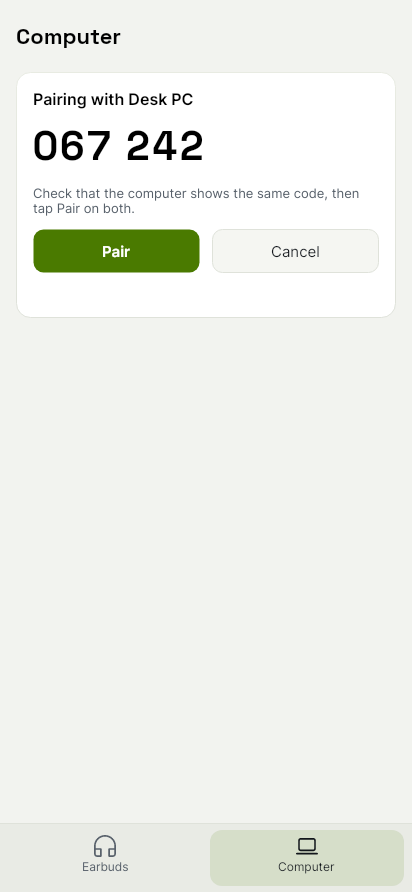
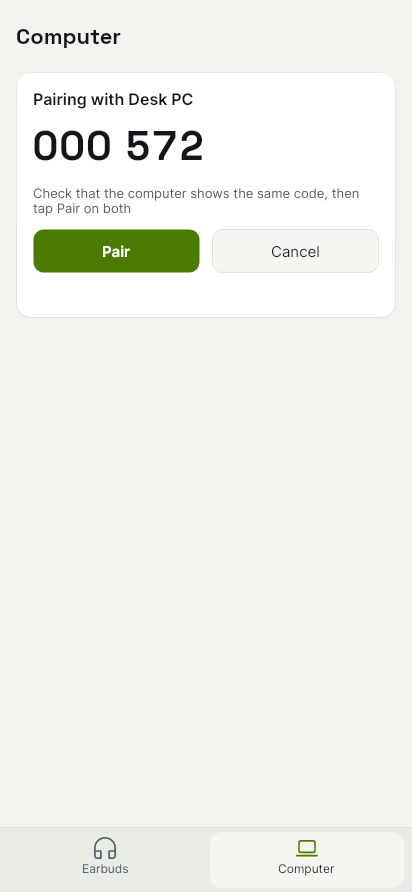
Docs: README, TRY-IT, screenshots and the decision record
- README: Bose and the shared driver list, the stress flags and image variables,
  the layering and design-system rules, links to feature/ui-redesign, and the
  submodule following feature/ui-redesign.
- TRY-IT: the desktop's branch is feature/ui-redesign; --simulate=worst/empty.
- docs/images: regenerated with the frozen clock (unslop polish, 15 px body text).
- docs/decisions/2026-11-05-mobile-improvements.md: per step, what was decided and
  why, the alternatives turned down, the rules applied, how it was verified, what
  needs a real phone, and the follow-ups for the desktop repo.

Claude-Session: https://claude.ai/code/session_01X2PKY5L5KEwvM7pq2gchR2

diff --git a/docs/decisions/2026-11-05-mobile-improvements.md b/docs/decisions/2026-11-05-mobile-improvements.md
@@ -1,0 +1,254 @@
+# Mobile improvements: shared foundations, design system and quality passes
+
+**Status:** open, into `main` · **Date:** 2026-11-05 · **Branch:** `claude/mobile-improvements`
+
+## Why this work happened
+
+- **The ask:** improve samaat-mobile the way the desktop repo was improved today (desktop PRs #1 to #5), following the plan in §6 of the desktop's session record (`docs/sessions/2026-11-05-session-record.md` on `docs/session-2026-11-05`), and open one PR.
+- **What the survey found:**
+  - The submodule was pinned at `e264134`, from before PR #1: none of the shared tokens, the driver list, the `CommandRunner` fix, the worst-case data, the motion fixes or the pairing fix.
+  - `AndroidHost.cs` held a fourth copy of the driver list (Jieli and Fast Pair, so no Bose).
+  - There was no architecture, design-system or contrast test, and no decision record.
+  - `Mobile.axaml` used literal sizes, and `DeviceItemViewModel` was 696 lines.
+
+## Baseline and result
+
+- **Before:** `dotnet build Samaat.Mobile.slnx` gave 0 warnings and `dotnet test` passed 18 tests.
+- **After:** 0 warnings and **163** tests, all passing. The Android projects are not compiled here (see "Not verified here").
+
+## Decisions per step
+
+### 1. Foundations
+
+| Decision | Why | Rejected alternative |
+|---|---|---|
+| Move the pin to `473a430` (the tip of `feature/ui-redesign`, PRs #1 to #5) | Brings every shared fix; it built unchanged | Wait for the audit-fixes PR (not pushed yet; the plan said not to depend on it) |
+| `Samaat.Android` builds its registry with `BuiltInDrivers.CreateRegistry(devices)` | One driver list for every app; the phone gains Bose | Keep a phone list and add Bose to it (the drift the desktop just removed) |
+| `Samaat.Mobile` drops its Jieli and Fast Pair references; `Samaat.Android` references `Samaat.Drivers` | Mobile never used them; they were there only for Android to inherit | Mobile references `Samaat.Drivers` (would make the UI project a second composition root) |
+| `Samaat.Drivers` and `Samaat.Protocols.Bose` in both solutions | `Samaat.Drivers` now compiles in CI even without the Android SDK | Android solution only |
+| `ArchitectureTests`: a per-project allow-list, plus four rules | The desktop's approach; layering becomes a build failure | Review only |
+| Vendor ECC's `common` and `csharp` rule packs in `.claude/rules/ecc/`, byte-identical to the desktop's | The same rules in both repos | User-level install (lost every cloud session) |
+
+The four layering rules:
+
+- Mobile references shared projects only.
+- The platform layer depends on no phone project.
+- Only `Samaat.Android` and the preview are composition roots.
+- Every built project is in its solution.
+
+A guard also fails if any project writes its own driver list again.
+
+**Not done: enabling the ECC plugin in `.claude/settings.json`.** Claude Code's auto mode refused to let the session write its own settings file ("self-modification"), twice. The owner can add it with:
+
+```json
+{
+  "extraKnownMarketplaces": { "ecc": { "source": { "source": "github", "repo": "affaan-m/ECC" } } },
+  "enabledPlugins": { "ecc@ecc": true }
+}
+```
+
+### 2. Design system
+
+| Decision | Why | Rejected alternative |
+|---|---|---|
+| Shared `Tokens.axaml` and `Metrics.axaml` for everything that matches; `Metrics.Mobile.axaml` only for what a phone needs to differ | One source of truth across both apps; the phone's differences are named and justified | Copy the desktop's values (32 px targets and 13 px body text are too small on a phone) or keep literals |
+| Phone tokens: 44 px touch target (WCAG 2.5.5); option, device and nav rows at 52, 72 and 56; radii 10, 12 and 14 for 44 px controls; a type ramp one step up (label 12, meta 13, body 15, panel title 16); figure 26 (narrower rows); code 40 | Touch and arm's-length reading. Each value is pinned by a test that it differs from the shared token for the same role, so a duplicate can't creep in | Add these to the shared `Metrics.axaml` (they're phone-only) |
+| `MobileApp` merges `Metrics.axaml` itself | The desktop made `Artwork.axaml` merge it for compatibility; relying on that is accidental coupling | Rely on `Artwork.axaml` |
+| Port `DesignSystemTests` and `ContrastTests` | Enforced, as on the desktop | A guideline |
+
+The ported design-system tests fail on:
+
+- hex colours, literal font sizes and literal shadows;
+- tokenised radii and literal touch targets;
+- the sparkle icon and emoji.
+
+The contrast tests cover the desktop's shared token pairs and the phone's own pairs. The contrast check moved out of `MobileTests`.
+
+**Verified:** the token refactor (`361d862` to `7861c91`) renders all 16 screenshots within the run-to-run noise floor (see "How it was verified"); none changed.
+
+### 3. Unslop pass (polish mode)
+
+**Audit result:** light slop (the unslop skill's sign list, as vendored in the desktop repo).
+
+- **Clean already:** no gradients, glows, emoji or uppercase labels; one icon set (Fluent); tested contrast.
+- **Found:**
+  - lime-tinted selection fills on noise and EQ options and on the current tab;
+  - 700-weight titles;
+  - a sparkle icon for Adaptive (set in C#, so the markup test missed it);
+  - off-grid spacing (6, 10, 14);
+  - full stops on one-sentence captions.
+
+**Direction:** the desktop's "Listening room", unchanged.
+
+- **Character:** exact, candid, quietly technical.
+- **World:** ink surfaces, one lime signal.
+- **Moments:** the device stage and the figures.
+- **Signature:** the battery ring.
+
+| Decision | Why | Rejected alternative |
+|---|---|---|
+| Selection is a `Surface2` step with an accent hairline, lit tile and check; the current tab is a neutral key with only its glyph lit | The desktop's PR #2 rule: the accent marks one thing | Keep the lime-tinted fills |
+| Headings at 600 | Hierarchy from size | 700 |
+| Adaptive uses `Icon.Adaptive` | The sparkle reads as "AI magic"; the desktop already uses this icon | Keep it |
+| Spacing on the 4 px grid; the 2 px nudges stay | Rhythm. A test enforces it | Leave stray values |
+| One-sentence captions lose the full stop | Captions are labels. Toasts and results from shared code (`HandoffCoordinator`) keep theirs, which is a desktop follow-up | Change the shared messages here (not allowed: the submodule is read-only) |
+
+The grid changes in detail:
+
+- rows: 12;
+- alerts and toasts: 12×8;
+- option rows: 8;
+- nav bar: 8×4;
+- gaps: 8;
+- the device row's text inset: 12.
+
+**Suggested, not done:**
+
+- Device rows use one headphones glyph for every device, while the desktop shows each device's thumbnail.
+- The overall level appears three times on the device page.
+
+### 4. Stress test (break-ui)
+
+| Decision | Why | Rejected alternative |
+|---|---|---|
+| Worst-case and empty data come in through the simulator (`SimulatedMobile.Create(scenario:)`, preview `--simulate=worst` or `--simulate=empty`) | The skill's rule: change the data at the boundary, never the component | Hand-edited views |
+| `WorstCaseRenderTests` (44 frames, at 412 and 360 px, both themes) | The frames show regressions; the checks make them failures | Screenshots only |
+
+`WorstCaseRenderTests` fails a frame on:
+
+- any text cut without an ellipsis;
+- anything past the right edge.
+
+It covers:
+
+- the worst-case and empty data sets;
+- a computer with a long name and many earbuds;
+- a long toast.
+
+**What broke, and the fix.** Report first, then fix; each fix has a test in `WorstCaseFixesTests`.
+
+| What broke | Fix |
+|---|---|
+| A long device name ran under Refresh and off the screen in the page title | The title gets the remaining width and wraps. Not `MaxLines`: Avalonia drops the overflow without an ellipsis, so a cut name looks complete |
+| Computer names were cut without an ellipsis in the nearby row, the pairing title, the paired panel, "Earbuds on …" and the device page | Identity text (which computer you pair with) wraps; rows of the computer's earbuds trim with an ellipsis. No tooltips: a phone has no hover |
+| The battery caption claimed every level was reported for "Jo" (no right-bud level, no case), and said "aren't reported" for a disconnected device | The desktop's caption rule: name every piece without a level; say to connect when nothing is known |
+| The empty list stretched to the bottom and offered no way out | It hugs its text and offers "Bluetooth settings" |
+| A long toast covered the end of the page | Room as tall as the toast is added below the content while it shows (the desktop's fix) |
+| `SimulatedPhoneAudio` threw on devices without a Bluetooth address | They're left out, as Android would list them |
+| (Found by step 5's fix) a long EQ preset name was cut at 360 px | Option labels wrap |
+
+**Held up:**
+
+- 0 % and 100 % with tabular figures;
+- right-to-left Urdu;
+- emoji;
+- unreported readings as "–";
+- "critically low" in words;
+- the "Pair with a computer" path for devices without an address.
+
+### 5. Motion
+
+**Inventory:**
+
+- the shared `BatteryRing` value glide (260 ms, strong ease-out 0.23, 1, 0.32, 1);
+- four indeterminate busy bars, only during a real wait;
+- Fluent's instant press scale.
+
+There are no page or tab transitions, entrance animations, size or position animation, or decorative loops. Nothing on a high-frequency action needed removing.
+
+| Decision | Why | Rejected alternative |
+|---|---|---|
+| Test that the shared ring fix holds where the phone uses it (one `DeviceView`, its data context the open device) | Switching from 81 % to 55 % must jump; the same device still glides | Trust the desktop's test (different host control) |
+| Reduce motion through `IMobilePlatform.PrefersReducedMotion` | Android reads "Remove animations" (animator duration scale 0) and re-reads it on resume. A default interface member keeps other platforms compiling | A setting inside Samaat (the phone already has one) |
+| A `reduce-motion` class on the root view, not the window | Android has no window | |
+| Busy bars take `IsIndeterminate` from the style | A local value beats every style, so reduced motion couldn't stop the sweep. A markup test enforces it | |
+
+Under reduce motion, the desktop's rules apply: the ring jumps, busy bars hold still at half opacity, and presses don't shrink.
+
+**Found along the way:** `UserControl.shell` never matched `MainView`, because Avalonia type selectors match the exact style key.
+
+- The phone's body text was Fluent's 14 px instead of the intended 15.
+- The shell background relied on the window style, which Android doesn't have.
+- **Fix:** `:is(UserControl).shell`, with a test. This changes text size across the app, which is intended. The docs screenshots were regenerated.
+
+The owner can run `/review-animations` for a full review; this session can't invoke that skill.
+
+### 6. Backend cleanup
+
+| Decision | Why | Rejected alternative |
+|---|---|---|
+| Extract the two decision functions, `BatterySummary` and `ComputerMoveState`, as plain records with `From(...)` | Testable without a UI; 21 test cases, written against the old behaviour before the move | Child view models with new bindings (a wider change across every view) |
+| Split the rest into partial files by responsibility, keeping bindings unchanged | Core (175 lines), Battery, Artwork, Sound, Computer; figure and option types in their own files. Views and tests needed no change | One file (it mixed five concerns) |
+| `MobileLog` (recent entries, `Trace`, logcat on Android) with `Observe()` for fire-and-forget tasks | A failed start used to leave an empty app and no trace | A logging framework (the desktop is designing shared logging; the phone should adopt that) |
+| A failed start is also shown | The user needs to know | Log only |
+| Platform-layer catches left as they are | They convert exceptions into results with stated reasons, and the platform can't reference `Samaat.Mobile` | |
+
+`MobileLog` now records:
+
+- the app's start and the link service's start;
+- the pairing decision and its cleanup;
+- broad catches: artwork photos, asset extraction, the foreground service.
+
+There were no `async void` methods. `ErrorHandlingTests` scans for fire-and-forget tasks and silent broad catches.
+
+**Deterministic renders:** `FrozenClock`, used only in the tests.
+
+- The wall time stands still and the simulator's drain tick never fires; other timers run for real.
+- Re-runs now differ only in the random pairing code, the busy-bar sweep and anti-aliasing noise.
+- This was the desktop's open item for its own screenshots.
+
+### 7. Docs
+
+- README: drivers, layering, design-system rules, stress flags, the submodule branch, and links to `feature/ui-redesign`.
+- `docs/TRY-IT.md`: the desktop branch is now `feature/ui-redesign`; the stress flags.
+- This record.
+
+## How it was verified
+
+- `dotnet build Samaat.Mobile.slnx`: 0 warnings, 0 errors. `dotnet test`: 163 passed (18 before). Run before every commit.
+- **Test-first:** each new test failed before its change: as an assertion, or as a compile error where the API was new. The exceptions:
+  - the shared ring test and the token-resolution tests, which check behaviour that already existed;
+  - the `DeviceItemPartsTests`, which characterise behaviour before a move.
+- **Pixel parity for refactors.** Each commit was rendered in a git worktree with the same `FrozenClock` harness, and the frames compared:
+  - **The noise floor:** two runs of identical code differ by at most 64 per channel on at most 10 pixels, plus frames with the random code or a busy-bar sweep.
+  - **Step 2** (`361d862` to `7861c91`): 16 of 16 within the floor.
+  - **Step 6** (`45d1e2b` to the split): 16 of 16 docs frames and 44 of 44 stress frames within the floor.
+  - **Step 1** (pin move, `6c29407` to `361d862`): 15 within the floor, and one with the ring's arc end moved by a pixel. That's expected: the old ring glided between devices, the new one jumps.
+- **A false start, reported:** the first parity checks compared RGBA images with Pillow's `getbbox()`, which looks only at alpha, so they always said "identical". The checks above were redone in RGB. The early renders were also non-deterministic (real-clock drain, random code); `FrozenClock` came out of this.
+
+## Not verified here (needs the Android SDK and a real phone)
+
+- `Samaat.Platform.Android` and `Samaat.Android` were **not compiled**. `dotnet workload install android` succeeded, but the apt-packaged SDK doesn't pick up the user-local workload, and there is no Android SDK (`android.jar`) in the container.
+- The changed Android code is small and uses existing types, but is unverified until the Android CI job runs:
+  - `AndroidHost`: `BuiltInDrivers.CreateRegistry`, logcat forwarding, `PrefersReducedMotion`, two logged catches;
+  - `MainActivity.OnResume`: `RefreshMotion()`;
+  - `LinkService`: a logged catch, and `Observe` on start.
+- On a phone: Bose earbuds through the phone's registry; "Remove animations" on and off while Samaat is in the background; logcat output under the tag "Samaat"; the 15 px body text and the wrapped titles on a real 360 dp screen.
+
+## Follow-ups for the desktop repo (shared code; the submodule was not edited)
+
+- `src/Samaat.Handoff/Moving/HandoffCoordinator.cs:102` and `:135`: "… moved to …." ends with a full stop, unlike the captions; both apps show it.
+- `src/Samaat.App/Features/Overview/DeviceViewModel.cs:505-519` and the phone's `BatterySummary`: the same caption rule written twice. Move it beside `NoiseControlPresentation` in shared code.
+- `src/Samaat.Simulator/WorstCaseDevices.cs:55`, `:63` and `:70`: three worst-case devices have no Bluetooth address, so the phone can't exercise connect or move with them. Give them addresses (and one device a long address-less case, if that path matters).
+- `src/Samaat.UI/Styles/Artwork.axaml:75-83`: the ring's glide has no reduce-motion rule, so each app overrides it (desktop `Gauges.axaml`, phone `Mobile.axaml`). A shared `.reduce-motion` rule would serve both.
+- `src/Samaat.UI/Styles/Icons.axaml:25`: `Icon.Sparkle` is now unused by both apps and can go.
+- The desktop's `RendersScreenshots` real-clock churn (its audit issue 10): the phone's `FrozenClock` approach (`tests/Samaat.Mobile.Tests/FrozenClock.cs`) would work there too.
+- Shared logging (audit issue 5): when it lands, replace `MobileLog` with it.
+- The open "Overall" label decision applies to the phone too: the list row shows the lowest bud.
+
+## Rules and procedures applied
+
+- The desktop's `CONTRIBUTING.md`: test-first, warnings as errors, never hide an unsupported feature.
+- The ECC common and C# rules (DRY: one driver list, one token per value; files under 800 lines; explicit error handling).
+- The unslop skill (Damir Sokolovsky, CC BY 4.0), followed from the desktop's vendored copy.
+- break-ui and review-animations standards (Emil Kowalski), as applied on the desktop.
+- One commit per step, a full build and test run before each, and this record.
+
+## Left open
+
+- Enable the ECC plugin (snippet above).
+- Run the Android CI job and a real phone (above).
+- If the desktop's audit-fixes PR (phone-handoff flag, logging) merges, move the pin and adopt its logging.
+- `/review-animations` by the owner.
+- Device thumbnails in the list; one less repetition of the overall level.
+- The battery caption isn't recomputed when the connection changes, only when the battery changes. Kept as it was (no behaviour change in step 6); worth a small fix.

diff --git a/README.md b/README.md
@@ -24,8 +24,9 @@
 
 - **Move your earbuds between the phone and your computer**, from either one, even earbuds that connect to one device at a time. The computer checks the phone, disconnects them there, and the phone connects them. If that doesn't happen, they go back where they were.
 - **Pair once by comparing a code.** The two apps talk over your Wi-Fi with an encrypted link: no account, no server.
-- **Battery, noise control and EQ**, with the desktop's drivers (Jieli RCSP, Google Fast Pair, the BLE Battery Service) and the desktop's device photos.
-- **Looks like the desktop app**: same design system, same logo, same artwork.
+- **Battery, noise control and EQ**, with the desktop's drivers (Jieli RCSP, Google Fast Pair, Bose BMAP, the BLE Battery Service) from the same driver list (`Samaat.Drivers.BuiltInDrivers`), and the desktop's device photos.
+- **Looks like the desktop app**: same design tokens, same logo, same artwork, with larger touch targets and type for a phone.
+- **Follows the phone's "Remove animations" setting**: the battery ring jumps instead of gliding and busy bars hold still.
 
 Android doesn't let apps connect a headset silently on most phones, so a move may ask you to tap your earbuds once in Android's audio output picker. There's no iPhone app: iOS doesn't let apps connect or disconnect Bluetooth headphones at all.
 
@@ -43,7 +44,21 @@ cd samaat-mobile
 # Already cloned without it?  git submodule update --init
 
 dotnet run --project src/Samaat.Mobile.Preview      # the phone app in a window on your computer
-dotnet test Samaat.Mobile.slnx                      # tests (set SAMAAT_SCREENSHOTS=<dir> to save screenshots)
+dotnet run --project src/Samaat.Mobile.Preview -- --simulate=worst   # stress data: long, RTL and emoji names, missing readings
+dotnet run --project src/Samaat.Mobile.Preview -- --simulate=empty   # no earbuds at all
+dotnet test Samaat.Mobile.slnx                      # tests
+```
+
+Two environment variables save images while the tests run:
+
+| Variable | Saves |
+|---|---|
+| `SAMAAT_SCREENSHOTS=<dir>` | the phone-sized screenshots in `docs/images` (dark and light) |
+| `SAMAAT_STRESS_SCREENSHOTS=<dir>` | the worst-case and empty frames, at 412 and 360 px, in both themes |
+
+The renders use a frozen clock, so a re-run gives the same images except for the random pairing code.
+
+```bash
 ```
 
 The Android app needs the Android workload and SDK:
@@ -63,7 +78,8 @@ src/
   Samaat.Platform.Android/   Android Bluetooth audio, paired devices, RFCOMM and GATT
   Samaat.Android/            the Android app: activity, foreground service, permissions
 tests/
-  Samaat.Mobile.Tests/       the phone UI headless, against a real computer link; accessibility checks; screenshots
+  Samaat.Mobile.Tests/       the phone UI headless, against a real computer link; layering, design-system, contrast,
+                             accessibility, stress and motion checks; screenshots
 external/samaat.io/          the desktop repo (submodule): Core, phone link, design system, drivers, protocols, devices/
 ```
 
@@ -72,19 +88,30 @@ external/samaat.io/          the desktop repo (submodule): Core, phone link, des
 | `Samaat.Mobile.slnx` | Everything that builds without the Android SDK. CI builds and tests it on Linux and Windows. |
 | `Samaat.Mobile.Android.slnx` | Everything, including the Android app. |
 
-The two repos share one copy of the code they have in common. `Directory.Build.props` and `Directory.Packages.props` import the desktop repo's, so compiler settings and package versions match too. The design, protocol and security notes live in the desktop repo: [phone handoff](https://github.com/MuhammadAbdulMoiz/samaat.io/blob/claude/phone-handoff/docs/modules/phone-handoff.md), [plan](https://github.com/MuhammadAbdulMoiz/samaat.io/blob/claude/phone-handoff/docs/plans/2026-11-04-phone-handoff.md), [design system](https://github.com/MuhammadAbdulMoiz/samaat.io/blob/claude/phone-handoff/docs/design/ui-audit.md).
+**Layering**, checked by `ArchitectureTests`:
+
+- `Samaat.Mobile` references only shared projects (Core, UI, Handoff, the simulator), never a vendor protocol, the driver list or a platform.
+- `Samaat.Platform.Android` implements Core, Transport and Handoff contracts and depends on no phone project.
+- `Samaat.Android` and the preview are the only composition roots; only `Samaat.Android` picks the drivers (`BuiltInDrivers`) and the Android platform.
+- Every project a solution builds is in it.
+
+**Design system**, checked by `DesignSystemTests` and `ContrastTests`: colours come from the shared `Tokens.axaml`, shape and type from the shared `Metrics.axaml`, and the few values a phone needs to differ (44 px touch targets, a type ramp one step up) from `src/Samaat.Mobile/Styles/Metrics.Mobile.axaml`. Markup holds no hex colours, literal font sizes, shadows, tokenised radii or literal touch targets; spacing sits on the 4 px grid; weights stop at 600.
+
+**Decisions** are recorded in [`docs/decisions/`](docs/decisions/), one file per change, in the desktop repo's style.
+
+The two repos share one copy of the code they have in common. `Directory.Build.props` and `Directory.Packages.props` import the desktop repo's, so compiler settings and package versions match too. The design, protocol and security notes live in the desktop repo: [phone handoff](https://github.com/MuhammadAbdulMoiz/samaat.io/blob/feature/ui-redesign/docs/modules/phone-handoff.md), [plan](https://github.com/MuhammadAbdulMoiz/samaat.io/blob/feature/ui-redesign/docs/plans/2026-11-04-phone-handoff.md), [architecture](https://github.com/MuhammadAbdulMoiz/samaat.io/blob/feature/ui-redesign/docs/ARCHITECTURE.md), [design system](https://github.com/MuhammadAbdulMoiz/samaat.io/blob/feature/ui-redesign/docs/design/ui-audit.md).
 
 ### Updating the shared code
 
-The submodule follows the desktop repo's `claude/phone-handoff` branch until that is merged:
+The submodule follows the desktop repo's integration branch, `feature/ui-redesign`:
 
 ```bash
 git submodule update --remote external/samaat.io    # move to the latest shared code
 git add external/samaat.io && git commit -m "Update shared code"
 ```
 
-After the desktop branch is merged, switch the submodule to `master`: `git submodule set-branch --branch master external/samaat.io`, then update as above.
+Then build and run the tests: a change in the shared tokens or APIs shows up here first. When the desktop renames its integration branch (to `dev`) or releases from `master`, switch with `git submodule set-branch --branch <branch> external/samaat.io` and update as above.
 
 ## Status
 
-Built and tested in CI with simulated earbuds; the Android app hasn't been run on a phone yet. Please try it and report what happens, using the [hardware checklist](https://github.com/MuhammadAbdulMoiz/samaat.io/blob/claude/phone-handoff/docs/plans/2026-11-04-phone-handoff.md#hardware-check-not-doable-in-ci).
+Built and tested in CI with simulated earbuds; the Android app hasn't been run on a phone yet. Please try it and report what happens, using the [hardware checklist](https://github.com/MuhammadAbdulMoiz/samaat.io/blob/feature/ui-redesign/docs/plans/2026-11-04-phone-handoff.md#hardware-check-not-doable-in-ci).

diff --git a/docs/TRY-IT.md b/docs/TRY-IT.md
@@ -5,7 +5,7 @@ You need two repos: the desktop app ([samaat.io](https://github.com/MuhammadAbdu
 ```bash
 git clone --recursive https://github.com/MuhammadAbdulMoiz/samaat-mobile.git
 git clone https://github.com/MuhammadAbdulMoiz/samaat.io.git
-cd samaat.io && git checkout claude/phone-handoff && cd ..
+cd samaat.io && git checkout feature/ui-redesign && cd ..
 ```
 
 ## 1. The desktop app (Windows laptop)
@@ -33,6 +33,8 @@ The preview opens the phone app in a phone-sized window. Its earbuds are the sam
 3. On the desktop, go to **Settings → Phone → Pair a phone**. When Windows asks, **allow Samaat on private networks**.
 4. In the phone window, open the **Computer** tab and tap **Pair** next to your computer. Check that both windows show the same code, then tap **Pair** in both.
 5. Open **Simulated Buds Pro** in either app and press **Move to …** or **Bring … here**.
+
+To see how the phone screens cope with awkward data, start the preview with `-- --simulate=worst` (long, short, right-to-left and emoji names, 0 % and 100 %, missing readings) or `-- --simulate=empty` (no earbuds). These earbuds don't exist on the desktop, so they can't be moved.
 
 To start over, **Forget** the phone in the desktop's Settings, and **Forget this computer** on the phone. The preview keeps its pairing in `%LOCALAPPDATA%\Samaat\phone-preview`.
 
@@ -63,7 +65,7 @@ To start over, **Forget** the phone in the desktop's Settings, and **Forget this
 4. Pair: on the desktop, **Settings → Phone → Pair a phone**; on the phone, **Computer → Pair**. Compare the codes.
 5. Move your real earbuds from either side. If Android shows the audio output picker or a notification, tap your earbuds: most Android phones don't let apps connect headphones silently.
 
-Please note what happened, using the [hardware checklist](https://github.com/MuhammadAbdulMoiz/samaat.io/blob/claude/phone-handoff/docs/plans/2026-11-04-phone-handoff.md#hardware-check-not-doable-in-ci).
+Please note what happened, using the [hardware checklist](https://github.com/MuhammadAbdulMoiz/samaat.io/blob/feature/ui-redesign/docs/plans/2026-11-04-phone-handoff.md#hardware-check-not-doable-in-ci).
 
 ## 4. iPhone
 
